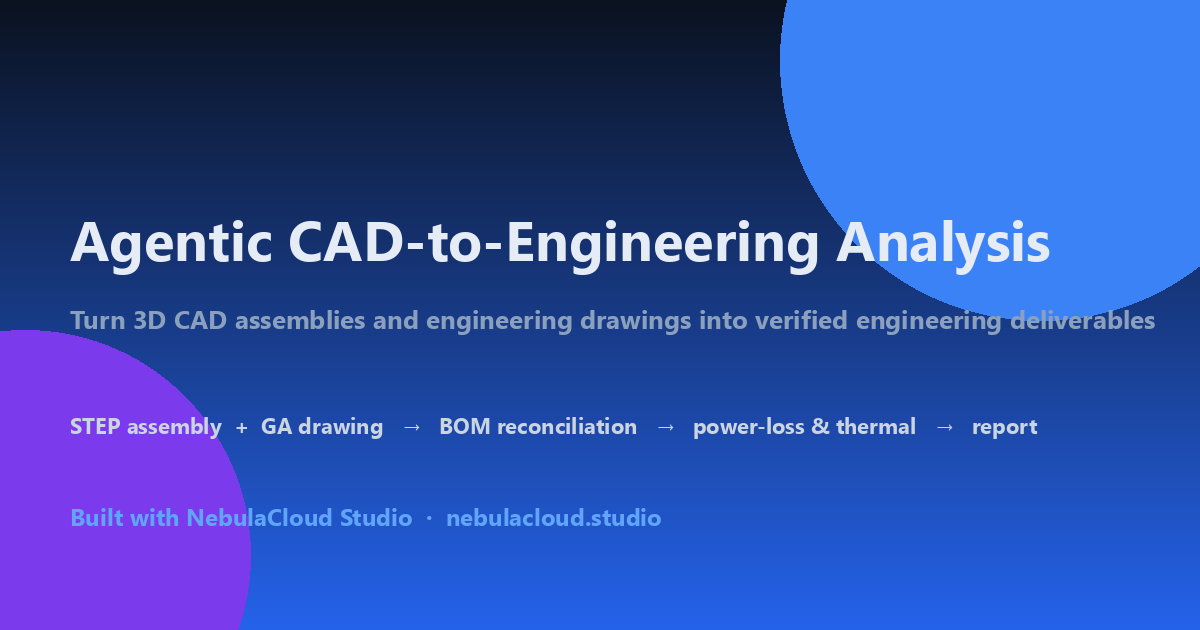
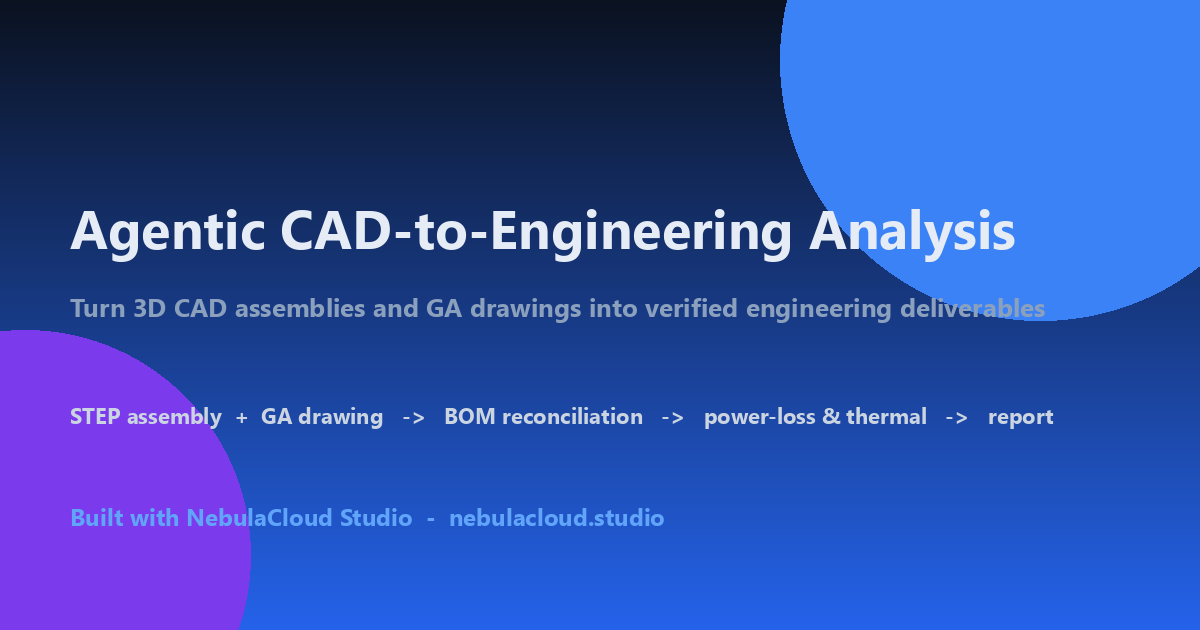
Align showcase README with studio-public-demos conventions

diff --git a/README.md b/README.md
@@ -1,170 +1,238 @@
-# Agentic CAD-to-Engineering Analysis
+# Agentic CAD-to-Engineering Analysis — Turn 3D CAD Assemblies & GA Drawings into Verified Engineering Deliverables
 
-**Turn 3D CAD assemblies and engineering drawings into verified engineering deliverables — by describing what you need in plain language.**
+**Evidence-led interpretation of a real 3D CAD assembly and its general-arrangement drawing — component extraction, BOM reconciliation, power-loss calculation, interactive 3D inspection, and a professional engineering report, executed by natural-language instruction.**
 
-A professional portfolio showcase of an application built with NebulaCloud Studio.
-
-> **Notice**
-> This repository is a public project showcase created using NebulaCloud Studio.
-> The proprietary source code, implementation details, prompts, workflows, datasets, infrastructure, and deployment configuration are intentionally not included.
+> **Notice** — This repository is a public project showcase created using NebulaCloud Studio. The proprietary source code, implementation details, prompts, workflows, datasets, infrastructure, and deployment configuration are intentionally not included.
 
 ---
 
-## 1. Overview
+## Overview
 
-This application demonstrates an end-to-end, agentic engineering workflow. It ingests a real 3D CAD assembly (STEP) together with a general-arrangement (GA) drawing, interprets both, and produces engineering analysis that is traceable to source data.
+Electrical enclosure and switchgear manufacturers already own 3D CAD models (SOLIDWORKS, Creo, AutoCAD) and detailed GA drawings. The engineering questions they need answered every day — *what components are actually in this model? does the BOM match the drawing? what is the total heat load?* — are still answered by hand.
 
-An engineer can open the application, issue a natural-language instruction such as *"reconcile the bill of materials, calculate the declared power losses, and generate a report"* — and the application executes the required CAD, document, calculation, visualization, and reporting steps, then returns source-linked deliverables.
+This showcase demonstrates a single connected workflow that:
 
-## 2. Business Problem
+1. Reads a STEP (AP203) assembly and extracts its hierarchy, components, dimensions and placements.
+2. Reads the GA drawing and extracts the bill of materials, quantities, ratings and losses.
+3. Reconciles the two — every drawing line is matched to identified geometry as **confirmed**, **inferred**, or **review**.
+4. Reproduces the declared heat-loss subtotal and operating-current reference with source traceability.
+5. Presents the assembly in an interactive 3D view (inspect, isolate, select; heat-source and thermal views).
+6. Lets an engineer describe the task in plain language and executes the required tools.
+7. Emits a professional engineering assessment and structured, reproducible deliverables.
 
-Manufacturers of electrical switchgear and enclosures rely on existing 3D CAD models (SOLIDWORKS, Creo, AutoCAD) and technical drawings. To answer a routine engineering question — *"what is the total heat load of this enclosure?"* or *"does this BOM match the 3D model?"* — engineers today must manually:
+The focus is on **what the application produces** — a traceable engineering result — not on how it is implemented.
 
-- Re-interpret the assembly structure and components.
-- Read tables out of drawings by hand.
-- Cross-check the drawing against the 3D model.
-- Repeat calculations in spreadsheets or separate tools.
+---
 
-This is slow, error-prone, and disconnected from the models the organization already owns.
+## Business Problem
 
-## 3. Solution Overview
+Engineering teams face a fragmented, manual workflow:
 
-The application connects the CAD model, the engineering drawing, the calculations, and the deliverables into one guided workflow:
+- **CAD and documents are disconnected.** The 3D model and the GA drawing live in different tools; reconciling them is a tedious visual cross-check.
+- **Extraction is error-prone.** Component descriptions, quantities and losses are read out of drawings by hand.
+- **Calculations are not traceable.** A heat-loss figure that mixes datasheet values and assumptions looks confident but is not defensible.
+- **Review loops are slow.** Discrepancies (an extra component, a mismatched quantity) surface late and require rework.
 
-1. **Direct CAD understanding** — import the STEP assembly, extract its hierarchy, components, dimensions, and placements.
-2. **Drawing intelligence** — extract the GA bill of materials, quantities, ratings, and losses.
-3. **CAD-to-GA reconciliation** — match expected components to identified geometry, with explicit *confirmed / inferred / review* states.
-4. **Engineering calculations** — deterministic, unit-validated calculations with source traceability and safeguards.
-5. **Interactive 3D inspection** — inspect, isolate, and select components; visualize heat sources.
-6. **Natural-language execution** — describe the task and the tools execute it.
+Without a structured, evidence-led workflow, engineers either over-engineer to be safe or ship with an un-reviewed assumption.
+
+---
+
+## Solution Overview
+
+The workflow turns a CAD assembly and a GA drawing into a reviewable engineering package:
+
+1. **Direct CAD understanding** — import the STEP assembly; extract the product structure, instances, dimensions and placements.
+2. **Drawing intelligence** — extract the GA bill of materials, notes and title block.
+3. **CAD-to-GA reconciliation** — match expected components to identified geometry with explicit status and exceptions.
+4. **Engineering calculations** — deterministic, unit-validated power-loss and current calculations with source traceability.
+5. **Interactive 3D inspection** — a consolidated, colour-coded assembly with component selection, isolation, and heat-source/thermal views.
+6. **Natural-language execution** — describe the task; the agent invokes the real CAD, document, calculation, visualization and reporting tools.
 7. **Professional deliverables** — an engineering assessment report plus structured, reproducible outputs.
 
-## 4. Live Demo
+---
 
-A standalone live demonstration is available at **`demo.html`** (open in any modern browser):
+## Live Demo
 
-- A representative (sanitized) 3D electrical enclosure with generic components.
-- Interactive inspection — rotate, zoom, and click any component to view its matched engineering information.
-- Component inventory, CAD-to-GA reconciliation, and power-loss calculation panels.
+[![Open live demo](assets/social-preview.png)](https://studio-public-demos.github.io/agentic-cad-engineering-analysis/demo.html)
 
-The live demo uses sample data only and exposes no implementation details, customer data, or internal APIs.
+The live demo opens the interactive **3D assembly viewer** — the primary working product:
 
-## 5. Demo Video
-
-A short walkthrough is available via the [live demo](demo.html): CAD import → drawing interpretation → component identification → calculations → 3D inspection → deliverables.
-
-## 6. Project Screenshots
-
-| View | Description |
+| Working product | URL |
 |---|---|
-| ![Assembly view](assets/screenshots/assembly-view.png) | Consolidated 3D assembly with component color coding and selection |
-| ![Reconciliation](assets/screenshots/reconciliation.png) | CAD-to-GA reconciliation with match status |
-| ![Calculations](assets/screenshots/calculations.png) | Declared power-loss calculation with source traceability |
-| ![Thermal assessment](assets/screenshots/thermal-assessment.png) | Thermal-design readiness with preliminary estimate |
-| ![Deliverables](assets/screenshots/deliverables.png) | Engineering report and structured outputs |
+| **Interactive 3D assembly** (primary) | https://studio-public-demos.github.io/agentic-cad-engineering-analysis/demo.html |
+| Showcase site | https://studio-public-demos.github.io/agentic-cad-engineering-analysis/ |
 
-## 7. Generated Outputs
+Fully client-side; no backend, no sign-up, no data leaves the browser. Uses a representative (sanitized) example.
 
-The application produces:
+---
 
-- **Engineering assessment report (PDF)** — inputs, methodology, calculations, observations, limitations.
-- **CAD component inventory** — extracted assembly structure and classifications.
-- **CAD-to-GA reconciliation report** — expected vs. identified quantities with confidence.
-- **Power-loss register** — component-wise losses with data provenance.
-- **Thermal assessment** — declared heat-load subtotal and a clearly-labelled preliminary temperature-rise estimate.
-- **Interactive 3D visualization** — model with linked engineering information.
+## Demo Video
 
-Representative (sanitized) examples are in [`assets/outputs/`](assets/outputs/).
+A walkthrough of the workflow — CAD import → drawing interpretation → component identification → calculations → 3D inspection → deliverables — is available as a short screen recording (see `assets/videos/`).
 
-## 8. Key Features
+---
 
-- Direct interpretation of STEP (AP203) assemblies — hierarchy, instances, dimensions, placements.
-- Document intelligence for GA drawings (BOM tables, notes, title block).
-- Automatic CAD ↔ drawing reconciliation with explicit exception reporting.
-- Deterministic engineering calculations with unit validation and source traceability.
-- Interactive WebGL 3D viewer — orbit/zoom/pan, component selection, isolation, heat-source and thermal views.
-- Natural-language task execution against real tools (not canned answers).
-- Professional, reproducible deliverables; all results traceable to the source files.
+## Project Screenshots
 
-## 9. Intended Users
+![Interactive 3D assembly](assets/screenshots/assembly-view.png)
 
-- **Design engineers** — inspect CAD, verify BOMs, review losses.
-- **Thermal / application engineers** — assess heat load and thermal-design readiness.
-- **Engineering managers** — review traceable, reproducible engineering deliverables.
+![CAD-to-GA reconciliation](assets/screenshots/reconciliation.png)
 
-## 10. Example Use Cases
+![Power-loss calculation](assets/screenshots/calculations.png)
 
-- Enclosure and switchgear thermal load assessment.
+*(High-resolution captures of the live demo.)*
+
+---
+
+## Generated Outputs
+
+The application produces these deliverables, reproduced here with a representative (sanitized) example:
+
+| Output | Description |
+|---|---|
+| **Engineering assessment report** | Product details, inputs, methodology, calculations, observations and limitations (PDF). |
+| **CAD component inventory** | Extracted assembly hierarchy and component classifications. |
+| **CAD-to-GA reconciliation** | Expected vs. identified quantities with match confidence and exceptions. |
+| **Power-loss register** | Component-wise losses with quantities and data provenance. |
+| **Thermal assessment** | Declared heat-load subtotal and a clearly-labelled preliminary temperature-rise estimate. |
+| **Interactive 3D visualization** | Consolidated assembly with linked engineering information. |
+
+All values are representative screening results from a sample scenario; they are not a certified compliance statement.
+
+---
+
+## Key Features
+
+| Capability | Description |
+|---|---|
+| STEP assembly interpretation | Reads AP203 product structure, instance counts, dimensions and placements directly. |
+| Drawing intelligence | Extracts GA BOM tables, notes and title block from the drawing PDF. |
+| CAD-to-GA reconciliation | Matches drawing lines to geometry as confirmed / inferred / review, with explicit exceptions. |
+| Deterministic calculations | Unit-validated power-loss and current calculations with source traceability and scenario safeguards. |
+| Interactive 3D inspection | WebGL viewer — orbit/zoom/pan, per-component selection, isolation, heat-source and thermal views. |
+| Natural-language execution | Plain-language instructions invoke real tools (not canned answers). |
+| Professional deliverables | Assessment PDF plus structured, reproducible JSON outputs. |
+
+---
+
+## Intended Users
+
+| Audience | Relevant Application |
+|---|---|
+| Design engineers | Inspect CAD, verify BOMs, review component losses. |
+| Thermal / application engineers | Assess enclosure heat load and thermal-design readiness. |
+| Engineering managers | Review traceable, reproducible engineering deliverables. |
+| Technical reviewers | Check which inputs are declared versus assumed before sign-off. |
+
+---
+
+## Example Use Cases
+
+- Enclosure and switchgear thermal load assessment from existing CAD and drawings.
 - CAD-to-BOM reconciliation and design review.
-- Solar combiner / array junction box verification.
-- Automated generation of engineering assessment reports from existing CAD and drawings.
+- Solar array junction box (AJB) verification.
+- Automated generation of engineering assessment reports from existing models and drawings.
+- A natural-language assistant for routine engineering lookups ("show all fuse holders", "reconcile the BOM", "generate the report").
 
-## 11. Technical Highlights (High-Level Only)
+---
 
-- STEP assembly parsing (product structure and instance counts).
-- Boundary-representation geometry processing for visualization.
-- Document table extraction from engineering drawings.
-- Deterministic calculation engine with scenario safeguards.
-- WebGL 3D viewer with per-component selection and view modes.
-- Natural-language task router invoking real engineering tools.
+## Technical Highlights (High-Level Only)
 
-## 12. Architecture Overview (Conceptual Only)
-
-![Architecture](assets/diagrams/architecture.png)
-
-The application follows a conceptual pipeline:
-
-```
-CAD model (STEP)  ──►  Geometry & assembly extraction  ──┐
-                                                         ├─►  Engineering model  ──►  Calculations ──►  Deliverables
-GA drawing (PDF)  ──►  Document intelligence (BOM)  ────┘            │
-                                                                     ├─►  3D visualization
-                                                                     └─►  Natural-language agent
-```
-
-Component interaction is described conceptually; internal services, prompts, and runtime architecture are not disclosed.
-
-## 13. Technical Scope & Limitations
-
-- The demonstration reproduces *declared* component losses and reconciles the drawing against the CAD model.
-- A *validated* temperature-rise result (e.g., IEC TR 60890 verification) requires additional inputs — ambient/installation conditions, manufacturer loss-vs-current characteristics, ventilation data, and temperature-rise test data. Where such data is absent, the application reports the gap and provides a clearly-labelled preliminary estimate from public-source assumptions rather than a fabricated result.
-- Visualized heat maps represent *declared heat sources*, not a computed thermal field, unless a validated thermal simulation is performed.
-
-## 14. Performance Summary (Verified Only)
-
-| Metric | Value |
+| Capability | Technology / Method |
 |---|---|
-| CAD assembly import & interpretation | ✅ successful |
+| CAD geometry | STEP (AP203) product-structure parsing and boundary-representation geometry processing. |
+| Document intelligence | Engineering-drawing table extraction from PDF. |
+| Calculation engine | Deterministic power-loss / current calculations with unit validation. |
+| 3D visualization | Three.js / WebGL, client-side, responsive, interactive. |
+| Agent execution | Natural-language task routing to real engineering tools. |
+| Deployment model | Fully static; all computation runs in the browser. |
+
+*(Implementation, prompts, workflows and internal logic are intentionally not included.)*
+
+---
+
+## Architecture Overview (Conceptual Only)
+
+```
+Inputs                          Processing                          Outputs
+─────────────                   ──────────────────────              ──────────────────────
+CAD model (STEP)   ──►  Geometry & assembly extraction  ──►  Component inventory
+GA drawing (PDF)   ──►  Document intelligence (BOM)     ──►  CAD-to-GA reconciliation
+                                                            Power-loss / current calc
+                                                            Thermal readiness
+                                                            Interactive 3D assembly
+                                                            Engineering report (PDF)
+```
+
+This is a conceptual user journey only — it is not an implementation or service-topology disclosure.
+
+---
+
+## Technical Scope & Limitations
+
+- The demonstration reproduces *declared* component losses and reconciles the drawing against the CAD model; it does not invent missing losses.
+- A *validated* temperature-rise result (e.g., IEC TR 60890 verification) requires additional inputs — ambient/installation conditions, manufacturer loss-vs-current characteristics, ventilation data, and temperature-rise test data. Where absent, the application reports the gap and provides a clearly-labelled preliminary estimate from public-source assumptions rather than a fabricated result.
+- Visualized heat maps represent *declared heat sources*, not a computed thermal field, unless a validated thermal simulation is performed.
+- The public sample model and BOM are illustrative and must not be used for real design decisions.
+
+---
+
+## Performance Summary (Verified Only)
+
+The following were reproduced and verified on the sample scenario (12 fuse-protected strings at 12 A, 40.6 W total declared loss, FRP enclosure):
+
+| Quantity | Value |
+|---|---|
+| STEP assembly import & interpretation | ✅ successful |
 | Unique products / assembly groups extracted | ✅ reproduced independently |
-| Declared heat-loss subtotal reproduced | ✅ exact |
-| Operating-current reference reproduced | ✅ exact |
+| Declared heat-loss subtotal | 40.6 W |
+| Operating-current reference | 144 A (12 × 12 A) |
 | CAD-to-GA reconciliation | ✅ complete with documented exceptions |
-| Interactive 3D visualization | ✅ verified in-browser |
+| Interactive 3D visualization | ✅ verified in-browser (no console errors) |
 | Natural-language task execution | ✅ real tools invoked |
 | Automated validation suite | ✅ all tests passing |
 | Responsive (320 / 375 / 768 / 1280 px) | ✅ no horizontal overflow |
 
-## 15. Attribution
-
-Third-party components used by the application are credited in [ATTRIBUTIONS.md](ATTRIBUTIONS.md).
-
-## 16. Built with NebulaCloud Studio
-
-Built with [NebulaCloud Studio](https://nebulacloud.studio) — AI-powered engineering automation.
-
-## 17. Related Project Showcases
-
-- [Nebula Thermal Studio](https://studio-public-demos.github.io/showcase/nebula-thermal-studio/)
-- [Thermal Verification Workbench](https://studio-public-demos.github.io/thermal-verification-workbench/)
-- [Solar Combiner Thermal Verification](https://github.com/studio-public-demos/solar-combiner-thermal-verification)
-
-## 18. Call to Action
-
-Want a similar CAD-to-engineering workflow for your own products and drawings?
-
-- Explore the [live demo](https://studio-public-demos.github.io/).
-- Learn more at [nebulacloud.studio](https://nebulacloud.studio).
+These are arithmetic results of the workflow, not physical test measurements.
 
 ---
 
-*The repository license applies only to the showcase materials in this repository. It does not grant rights to the application source code, Studio platform, proprietary workflows, prompts, models, datasets, or hosted services.*
+## Attribution
+
+- **Three.js** — WebGL library (MIT), used for the 3D visualization.
+- **FreeCAD** — open-source CAD geometry processing (LGPL-2.1-or-later).
+- **IEC TR 60890 / IEC 61439-1** — referenced thermal-verification standards, © International Electrotechnical Commission; not reproduced in this repository.
+- **Trinity Touch** — publicly documented solar combiner / junction-box products used as an illustrative reference.
+
+Full details and licences are in [ATTRIBUTIONS.md](ATTRIBUTIONS.md).
+
+---
+
+## Built with NebulaCloud Studio
+
+This project was created using [NebulaCloud Studio](https://nebulacloud.studio), an agentic application-building platform for engineering, scientific, geospatial and interactive digital workflows. NebulaCloud Studio helps domain professionals turn ideas, models, datasets and algorithms into usable, deployable applications.
+
+---
+
+## Related Project Showcases
+
+- **Thermal Verification Workbench** — a vendor-neutral enclosure temperature-rise workbench (IEC TR 60890 / IEC 61439-1).
+- **Solar Combiner Thermal Engineering** — an evidence-led thermal case study of a published DC combiner box.
+
+Additional engineering, geospatial and interactive showcases are listed on the [Studio demos catalogue](https://studio-public-demos.github.io/).
+
+---
+
+## Call to Action
+
+Working with electrical enclosures, switchgear, or other assemblies that need defensible CAD interpretation and thermal verification?
+
+- Explore the live demo in this repository.
+- See the broader portfolio at [studio-public-demos.github.io](https://studio-public-demos.github.io/).
+- Discuss a private engineering engagement at [nebulacloud.studio](https://nebulacloud.studio).
+
+---
+
+## License
+
+This repository's license applies only to the showcase materials included here. It does **not** grant rights to the source code, the Studio platform, proprietary workflows, internal prompts, models, datasets, hosted services or trademarks. See [LICENSE](LICENSE).

diff --git a/ATTRIBUTIONS.md b/ATTRIBUTIONS.md
@@ -1,8 +1,15 @@
 # Attributions
 
-This showcase describes an application that relies on the following open-source
-components (listed at a high level). Their licenses apply to the respective
-libraries; they are not included in this repository.
+## Standards
+
+- **IEC TR 60890** — thermal-verification-by-calculation method for low-voltage switchgear and controlgear assemblies; © International Electrotechnical Commission. Referenced for context; the standard text is not reproduced in this repository.
+- **IEC 61439-1** — low-voltage switchgear and controlgear assemblies (general rules); © International Electrotechnical Commission. Referenced for context; not reproduced.
+
+## Reference products
+
+- **Trinity Touch** — publicly documented solar combiner / array junction box (AJB) products, used as an illustrative reference for the electrical-enclosure scenario. No proprietary drawings or CAD data are included in this showcase.
+
+## Open-source components (used by the application; not included in this repository)
 
 | Component | Purpose | License |
 |---|---|---|
